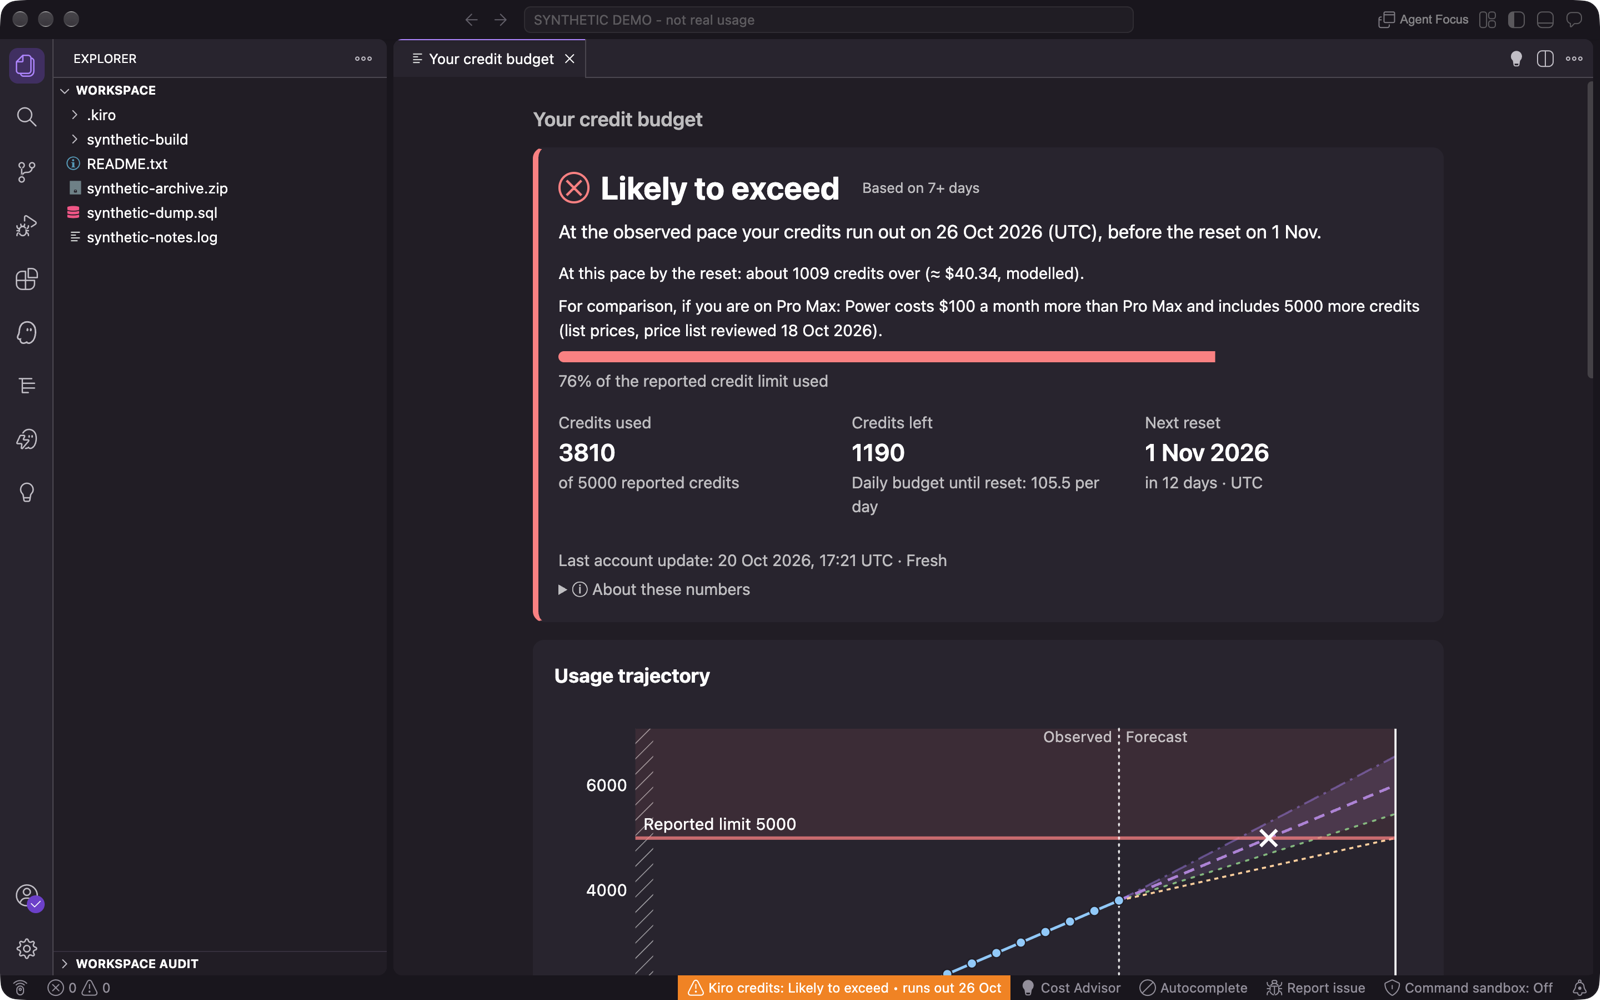
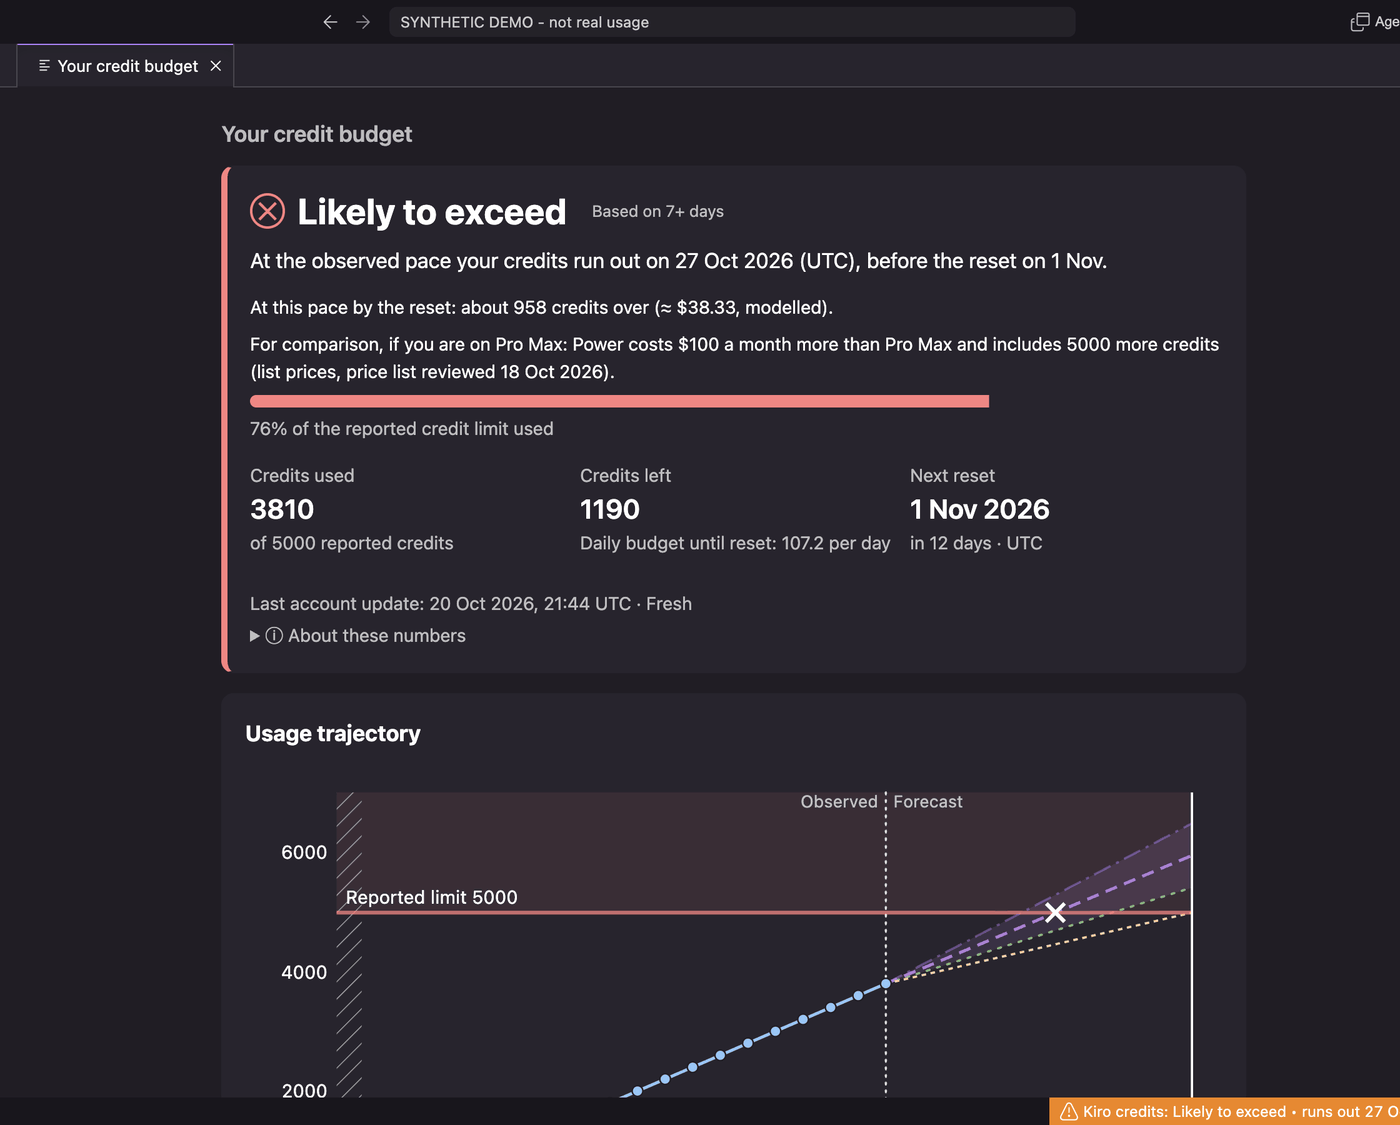
docs(media): Bobert story GIF and fresh screenshots from synthetic demo
Re-captured from the Bobert build with invented data only. The GIF is a
cut of a short story video (Meet Bobert, the warning, the credit view,
the audit and the prepared .kiroignore, tagline outro). Alt texts match.

diff --git a/README.md b/README.md
@@ -14,7 +14,7 @@ Bobert looks like he has seen a ghost. He has: your credit forecast.
 Kiro tells you how many credits you have used. Bobert tells you what that means: whether they will last until the reset, what going over would cost, and where credits quietly leak away. It's all in your status bar, a few days before it matters rather than at the end of the cycle.
 
 <p align="center">
-  <img src="https://raw.githubusercontent.com/StefanSuess/Bobert/main/docs/media/demo.gif" alt="Animated demo with invented data: a Bobert notice says the credits run out on 26 Oct, 6 days before the reset, about $40 over the limit (modelled); Show details opens the credit view, About these numbers expands, then the workspace audit runs and Exclude from Kiro opens Kiro's change preview with the suggested .kiroignore lines." width="900">
+  <img src="https://raw.githubusercontent.com/StefanSuess/Bobert/main/docs/media/demo.gif" alt="Animated story with invented data: Bobert the robot appears, a notice warns that the credits run out on 27 Oct, 5 days before the reset (about $38 over the limit, modelled), the credit view shows the forecast and the usage chart, the workspace audit finds a database dump and an archive Kiro may read, and Bobert prepares the .kiroignore lines for review." width="900">
 </p>
 
 ## Why you'll want it
@@ -29,14 +29,14 @@ Kiro tells you how many credits you have used. Bobert tells you what that means:
 Free and open source, with no account, no sign-in and no telemetry. Everything stays on your machine, and Kiro's files are only ever read.
 
 <p align="center">
-  <img src="https://raw.githubusercontent.com/StefanSuess/Bobert/main/docs/media/credit-view.png" alt="Bobert credit view with invented data: 3810 of 5000 reported credits used, likely to exceed with a run-out date of 26 Oct before the 1 Nov reset, a modelled overage of about 1009 credits (about $40) next to the cost of the next larger plan, and the usage chart with forecast lines. No real account information is shown." width="900">
+  <img src="https://raw.githubusercontent.com/StefanSuess/Bobert/main/docs/media/credit-view.png" alt="Bobert credit view with invented data: Likely to exceed, 3810 of 5000 reported credits used, the credits run out on 27 Oct before the 1 Nov reset, about 958 credits over (about $38.33, modelled) next to the cost of the next larger plan, and the usage chart with forecast lines. No real account information is shown." width="900">
 </p>
 
 <details>
 <summary><b>More screenshots:</b> budget notice, Cost Advisor, workspace audit, Steering and Hooks review</summary>
 
 <p align="center">
-  <img src="https://raw.githubusercontent.com/StefanSuess/Bobert/main/docs/media/budget-notice.png" alt="Kiro status bar reading Kiro credits: Likely to exceed, runs out 26 Oct, and a Bobert notice that the invented credits run out 6 days before the reset, about $40.27 over the limit (modelled), with Show details and Turn off budget notices buttons." width="700">
+  <img src="https://raw.githubusercontent.com/StefanSuess/Bobert/main/docs/media/budget-notice.png" alt="Bobert, a worried robot with a gauge for a mouth, next to a notice with invented data: at this pace the Kiro credits run out on 27 Oct, 5 days before the reset (about $38.33 over the limit, modelled), with Show details and Turn off budget notices buttons." width="700">
 </p>
 
 <p align="center">
@@ -44,11 +44,11 @@ Free and open source, with no account, no sign-in and no telemetry. Everything s
 </p>
 
 <p align="center">
-  <img src="https://raw.githubusercontent.com/StefanSuess/Bobert/main/docs/media/workspace-audit.png" alt="Workspace Audit view listing invented files Kiro may read but probably doesn't need, about 190.7 MiB in total (a database dump and an archive), beside Kiro's change preview of the suggested .kiroignore lines, which stay unsaved until you apply and save them." width="900">
+  <img src="https://raw.githubusercontent.com/StefanSuess/Bobert/main/docs/media/workspace-audit.png" alt="Workspace Audit view with invented files: 4 suggestions, Kiro may read about 190.7 MiB, a database dump and an archive to exclude, a large always-included Steering file and a hook that runs on every file change, beside the prepared .kiroignore lines that stay unsaved until you save them." width="900">
 </p>
 
 <p align="center">
-  <img src="https://raw.githubusercontent.com/StefanSuess/Bobert/main/docs/media/steering-hooks.png" alt="Steering and Hooks review flagging an invented always-included Steering file and a hook that runs on every file change, with Kiro's change preview of switching the Steering file from inclusion always to manual." width="900">
+  <img src="https://raw.githubusercontent.com/StefanSuess/Bobert/main/docs/media/steering-hooks.png" alt="Steering and Hooks review with invented files: a large always-included Steering file and a hook that runs on every file change, with Kiro's change preview switching the Steering file from inclusion always to manual." width="900">
 </p>
 
 </details>

diff --git a/docs/launch/demo-script.md b/docs/launch/demo-script.md
@@ -2,7 +2,7 @@
 
 > **DRAFT, NOT PUBLISHED. Outreach is not approved.** Records only the synthetic demo from [synthetic-demo.md](../synthetic-demo.md). Never record a real profile, real workspace, real path, real account name or the normal Kiro window.
 
-**Status 2026-10-20:** S1–S5 and the GIF were captured from candidate `c7f259d` with this setup and embedded in the README; `dashboard.jpg` and `cost-advisor.jpg` were removed. S5 uses the default pace (at the high pace the Cost Advisor prices no strategy). The GIF has no burned-in captions (the local ffmpeg lacks `drawtext`); its alt text describes it. The GIF was later cut from 30.5 s to about 14 s (waiting time removed, same flow). Re-capture only when the UI changes.
+**Status 2026-10-20 (Bobert 1.0.0):** credit view, budget notice, workspace audit and Steering and Hooks stills and the GIF were re-captured from the Bobert build in fresh synthetic demo profiles (window 1440×900, Retina, `screencapture -l`). The GIF is a cut of a story video: intro "Meet Bobert.", notice, credit view, chart, audit, prepared `.kiroignore`, outro with the tagline, with Bobert captions burned in. Social versions (16:9 and 9:16 MP4 with generated music) are kept outside the repository. `cost-advisor.png` is unchanged (it shows no product name). Lesson: the budget notice appears once per cycle and its toast hides after a few seconds, so capture it in a burst right after trusting the workspace. Re-capture only when the UI changes.
 
 ## Setup (not filmed)
 
